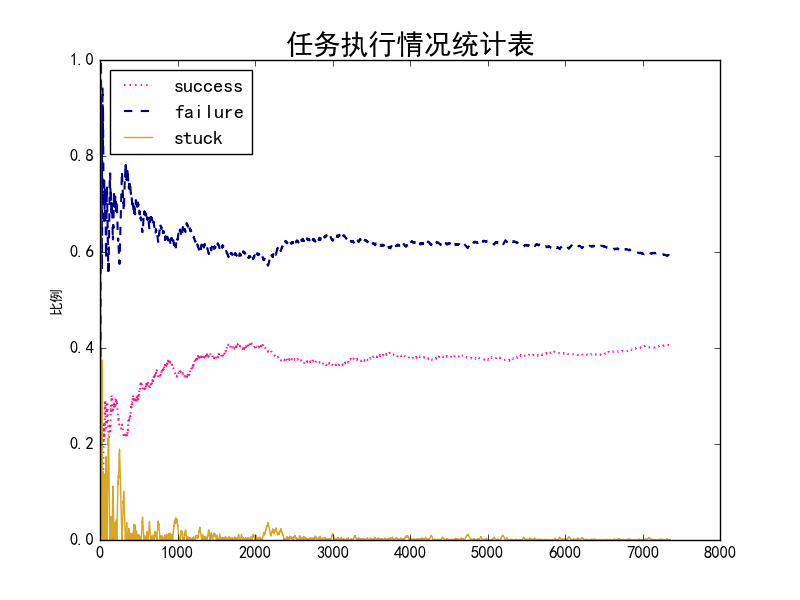
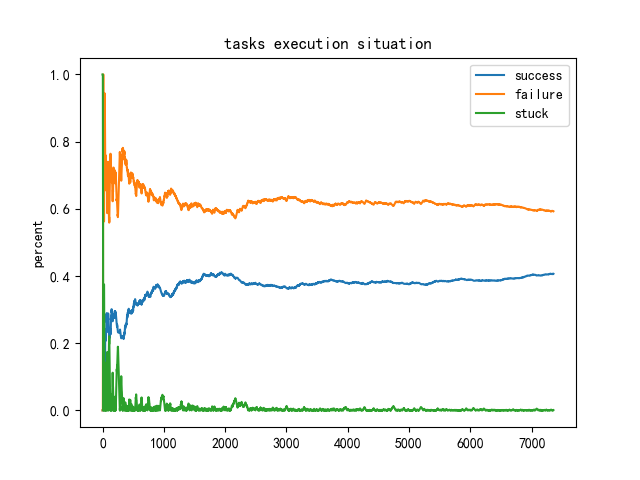
change style

diff --git a/cloud/data/drawCollect.py b/cloud/data/drawCollect.py
@@ -2,6 +2,7 @@ from matplotlib import pyplot as plt
 import pandas as pd
 import numpy as np
 import matplotlib
+import seaborn as sns
 
 
 def is_update(y_total):
@@ -18,25 +19,17 @@ def is_update(y_total):
 
 if __name__ == "__main__":
     plt.rcParams['font.sans-serif'] = ['SimHei']
-    data = pd.read_csv(r'./10_21_6/dqn/collect_compute.csv', header=None,
-                       names=['success', 'failure', 'stuck', 'success_percent',
-                              'failure_percent', 'stuck_percent'])
-    # data = pd.read_csv(r'./10_21_6/greedy/collect_compute.csv', header=None,
-    #                    names=['success', 'failure', 'stuck', 'success_percent',
-    #                           'failure_percent', 'stuck_percent'])
-    x = np.arange(1, data.shape[0]).tolist()
-    success_y = data['success_percent'][1:].tolist()
-    failure_y = data['failure_percent'][1:].tolist()
-    stuck_y = data['stuck_percent'][1:].tolist()
+    data = pd.read_csv(r'./10_21_6/dqn/collect_compute.csv', usecols=[3, 4, 5])
+    # data = pd.read_csv(r'./10_21_6/greedy/collect_compute.csv', usecols=[3, 4, 5])
 
-    plt.title(u'任务执行情况统计表', fontsize=20)
-    plt.ylabel(u'比例', fontsize=10)
+    plt.title('tasks execution situation')
+    plt.ylabel('percent')
 
-    plt.plot(x, success_y, color='deeppink', linewidth=1.5, linestyle=':', label='success')
-    plt.plot(x, failure_y, color='darkblue', linewidth=1.5, linestyle='--', label='failure')
-    plt.plot(x, stuck_y, color='goldenrod', linewidth=1, linestyle='-', label='stuck')
+    sns.lineplot(data=data['success_percent'], label="success")
+    sns.lineplot(data=data['failure_percent'], label="failure")
+    sns.lineplot(data=data['stuck_percent'], label="stuck")
 
-    plt.legend(loc=2)
     plt.savefig('./10_21_6/dqn/collect.png')
     # plt.savefig('./10_21_6/greedy/collect.png')
+
     plt.show()

diff --git a/cloud/data/drawCollectCombine.py b/cloud/data/drawCollectCombine.py
@@ -2,6 +2,7 @@ from matplotlib import pyplot as plt
 import pandas as pd
 import numpy as np
 import matplotlib
+import seaborn as sns
 
 
 def is_update(y_total):
@@ -18,22 +19,14 @@ def is_update(y_total):
 
 if __name__ == "__main__":
     plt.rcParams['font.sans-serif'] = ['SimHei']
-    greedy_data = pd.read_csv(r'./10_21_6/greedy/collect_compute.csv', header=None,
-                              names=['success', 'failure', 'stuck', 'success_percent',
-                                     'failure_percent', 'stuck_percent'])
-    dqn_data = pd.read_csv(r'./10_21_6/dqn/collect_compute.csv', header=None,
-                           names=['success', 'failure', 'stuck', 'success_percent',
-                                  'failure_percent', 'stuck_percent'])
-    x = np.arange(1, dqn_data.shape[0]).tolist()
-    greedy_y = greedy_data['success_percent'][1:].tolist()
-    dqn_y = dqn_data['success_percent'][1:].tolist()
+    greedy_data = pd.read_csv(r'./10_21_6/greedy/collect_compute.csv', usecols=[3])
+    dqn_data = pd.read_csv(r'./10_21_6/dqn/collect_compute.csv', usecols=[3])
 
-    plt.title(u'任务执行情况统计表', fontsize=20)
-    plt.ylabel(u'比例', fontsize=10)
+    plt.title('tasks execution situation')
+    plt.ylabel('percent')
 
-    plt.plot(x, greedy_y, color='deeppink', linewidth=1.5, linestyle=':', label='greedy')
-    plt.plot(x, dqn_y, color='darkblue', linewidth=1.5, linestyle='--', label='dqn')
+    sns.lineplot(data=dqn_data['success_percent'], label="dqn")
+    sns.lineplot(data=greedy_data['success_percent'], label="greedy")
 
-    plt.legend(loc=2)
     plt.savefig('./10_21_6/collect.png')
     plt.show()

diff --git a/cloud/data/drawReward.py b/cloud/data/drawReward.py
@@ -2,6 +2,7 @@ from matplotlib import pyplot as plt
 import pandas as pd
 import numpy as np
 import matplotlib
+import seaborn as sns
 
 
 def prepare_data(path):
@@ -25,12 +26,11 @@ if __name__ == "__main__":
     greedy_path = r'./10_21_6/greedy/reward_hist.csv'
     greedy_data = prepare_data(greedy_path)
 
-    plt.title('reward', fontsize=20)
-    plt.ylabel(u'成功率', fontsize=10)
+    plt.title('reward')
+    plt.ylabel('percent')
 
-    plt.plot(dqn_data['epoch'], dqn_data['reward_percent'], color='darkblue', linewidth=1.5, label='dqn')
-    plt.plot(greedy_data['epoch'], greedy_data['reward_percent'], color='deeppink', linewidth=1.5, label='greedy')
+    sns.lineplot(data=dqn_data['reward_percent'], label="dqn")
+    sns.lineplot(data=greedy_data['reward_percent'], label="greedy")
 
-    plt.legend(loc=2)
     plt.savefig('./10_21_6/reward.png')
     plt.show()

diff --git a/cloud/data/drawLoss.py b/cloud/data/drawLoss.py
@@ -1,5 +1,6 @@
 from matplotlib import pyplot as plt
 import pandas as pd
+import seaborn as sns
 
 
 def prepare_data(path):
@@ -19,10 +20,9 @@ def prepare_data(path):
 if __name__ == "__main__":
     plt.rcParams['font.sans-serif'] = ['SimHei']
     data = prepare_data(r'./10_21_6/dqn/loss_hist.csv')
-    plt.title('Loss', fontsize=20)
-    plt.ylabel(u'loss', fontsize=10)
+    plt.title('Loss')
 
-    plt.plot(data['epoch'], data['loss'], color='deeppink', linewidth=1.5)
+    sns.lineplot(data=data['loss'], label="loss")
 
     plt.savefig('./10_21_6/dqn/loss.png')
     plt.show()
